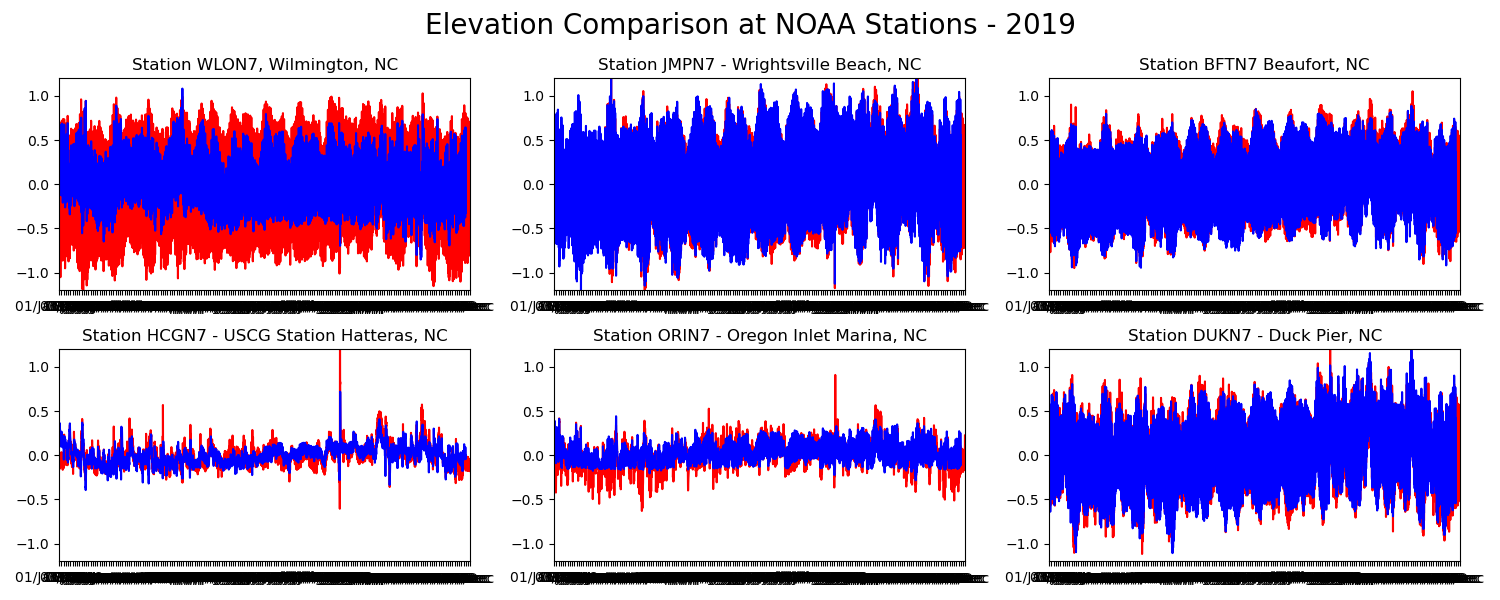
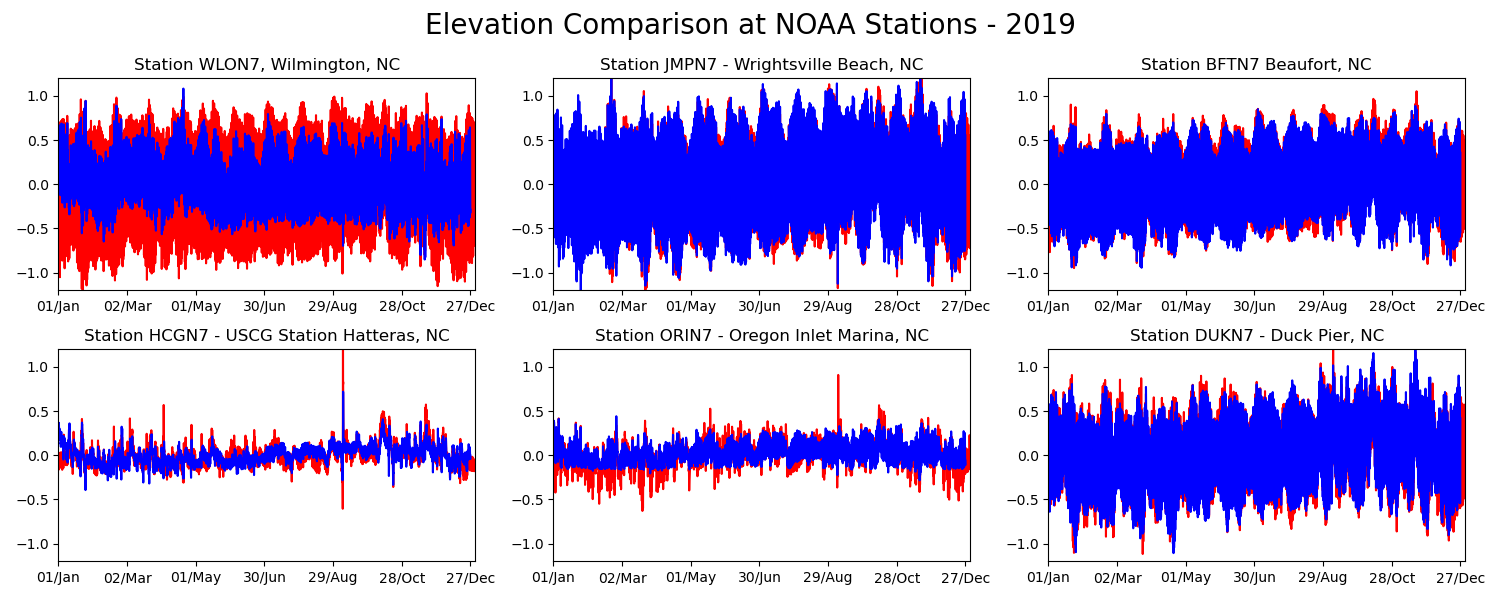
edited tidal station graph

diff --git a/Calibration/Compare_NOAA_Elev_Year.py b/Calibration/Compare_NOAA_Elev_Year.py
@@ -4,7 +4,7 @@ obs = loadz("/home/liuq/Analysis/APS/database_Zhengui/elev/noaa_elev_navd.npz")
 
 figure(figsize=[15, 6])
 xts,xls=get_xtick(fmt=2,xts=[datenum(2019,1,1),datenum(2019,12,31)],str='%d/%b')
-xts,xls=xts[::2],xls[::2]; xls[0]=xls[0]+', 2018'
+xts,xls=xts[::60],xls[::60]; xls[0]=xls[0]#+', 2018'# orig 2, not 60
 
 mod = loadz("/home/liuq/Analysis/APS/RUN02a/mod_at_noaa_stations.npz")
 stations= [8658120, 8658163, 8656483, 8654467, 8652587, 8651370];
